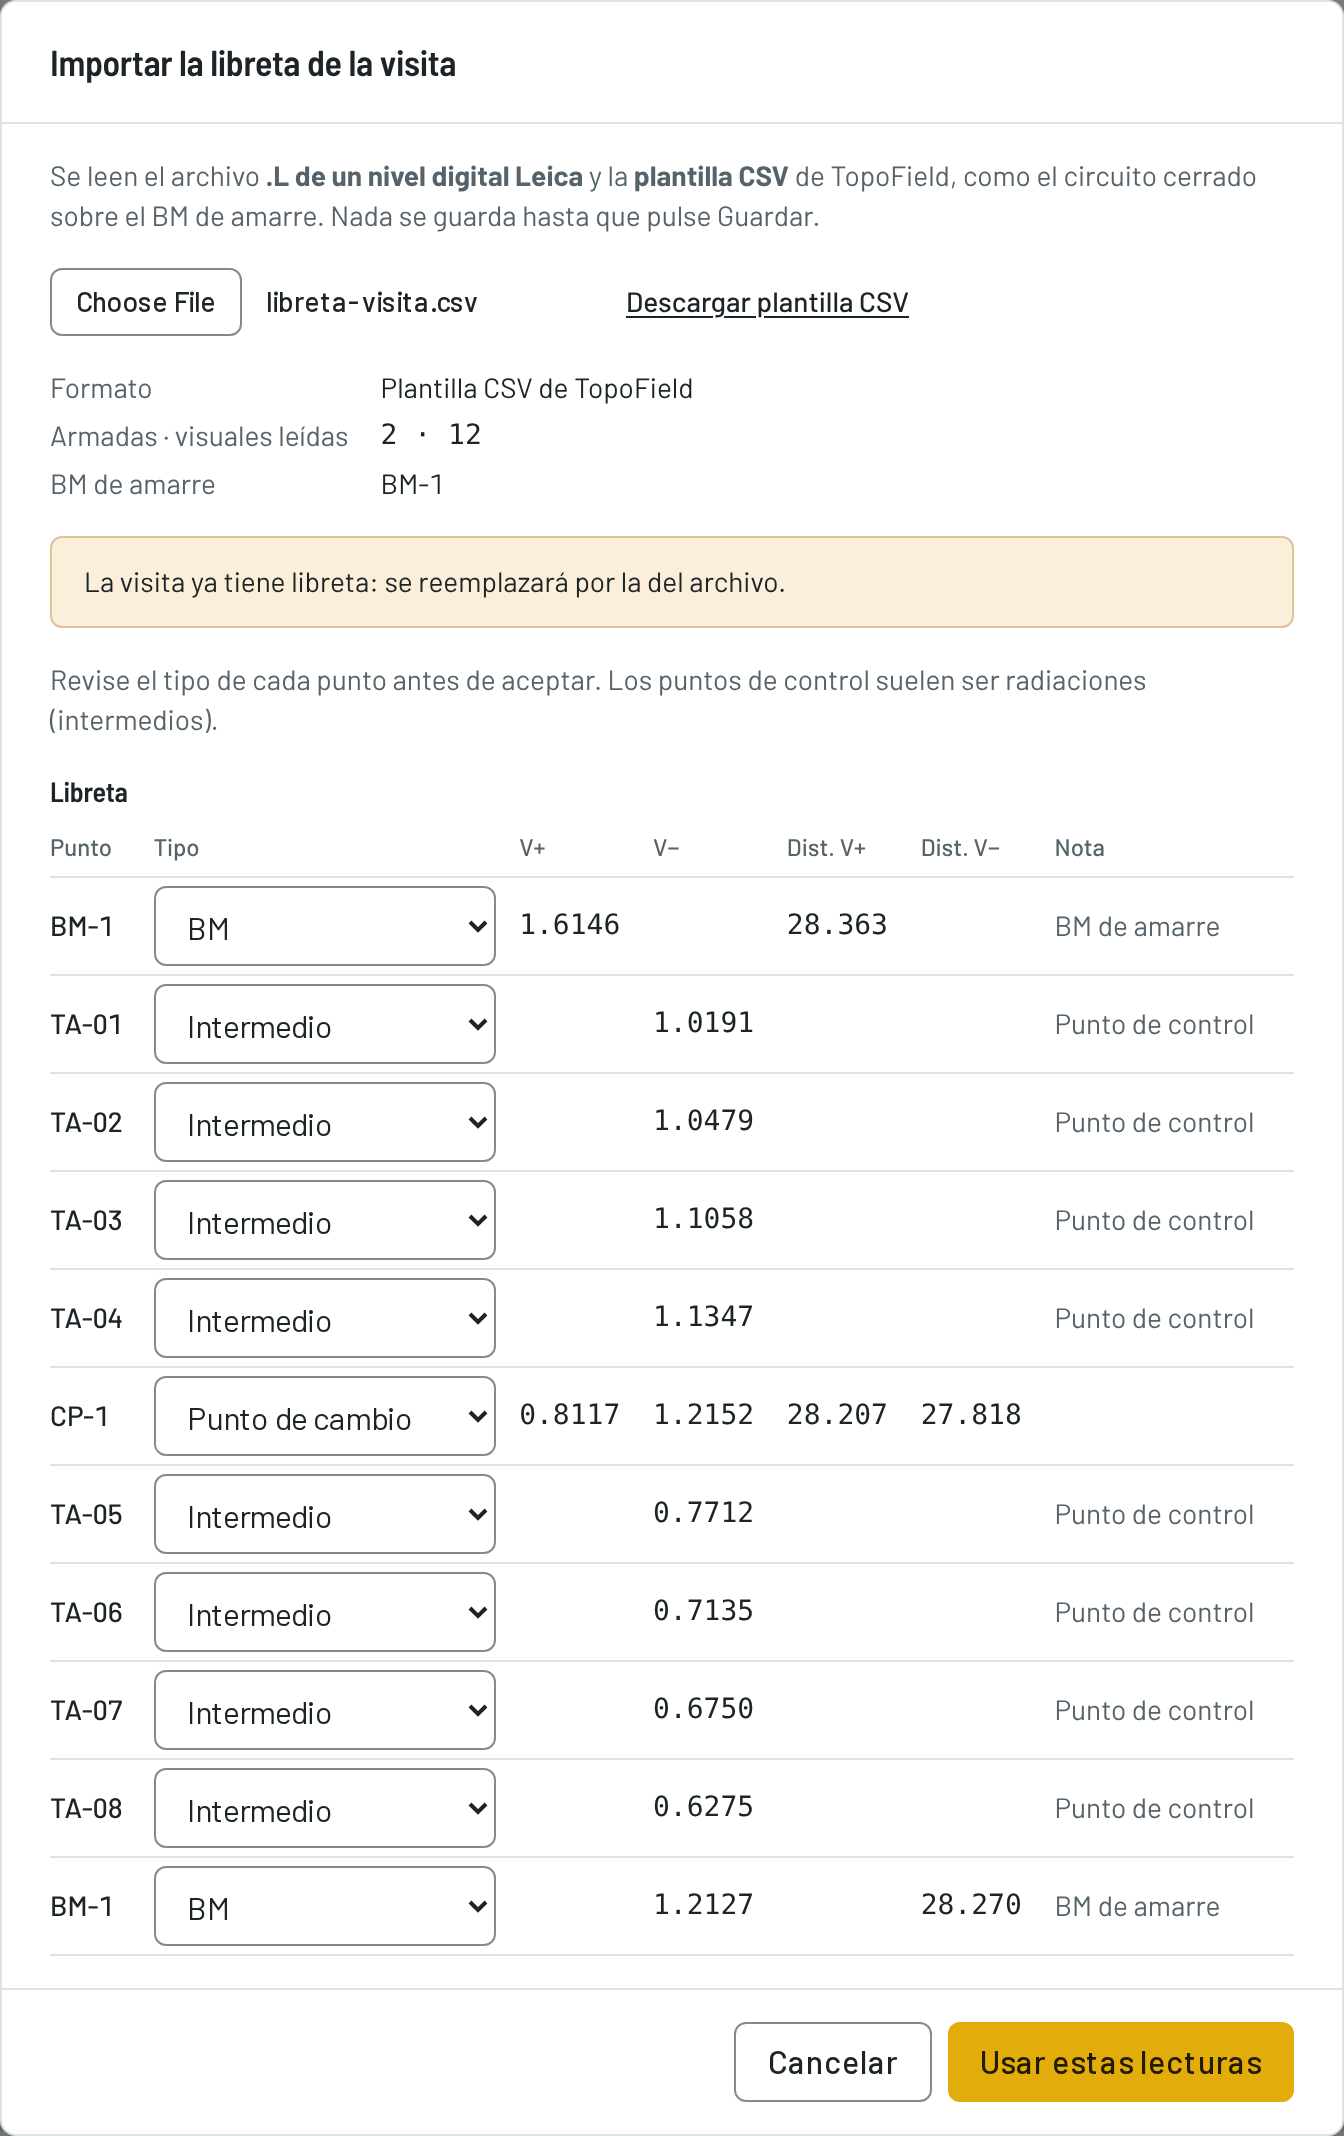
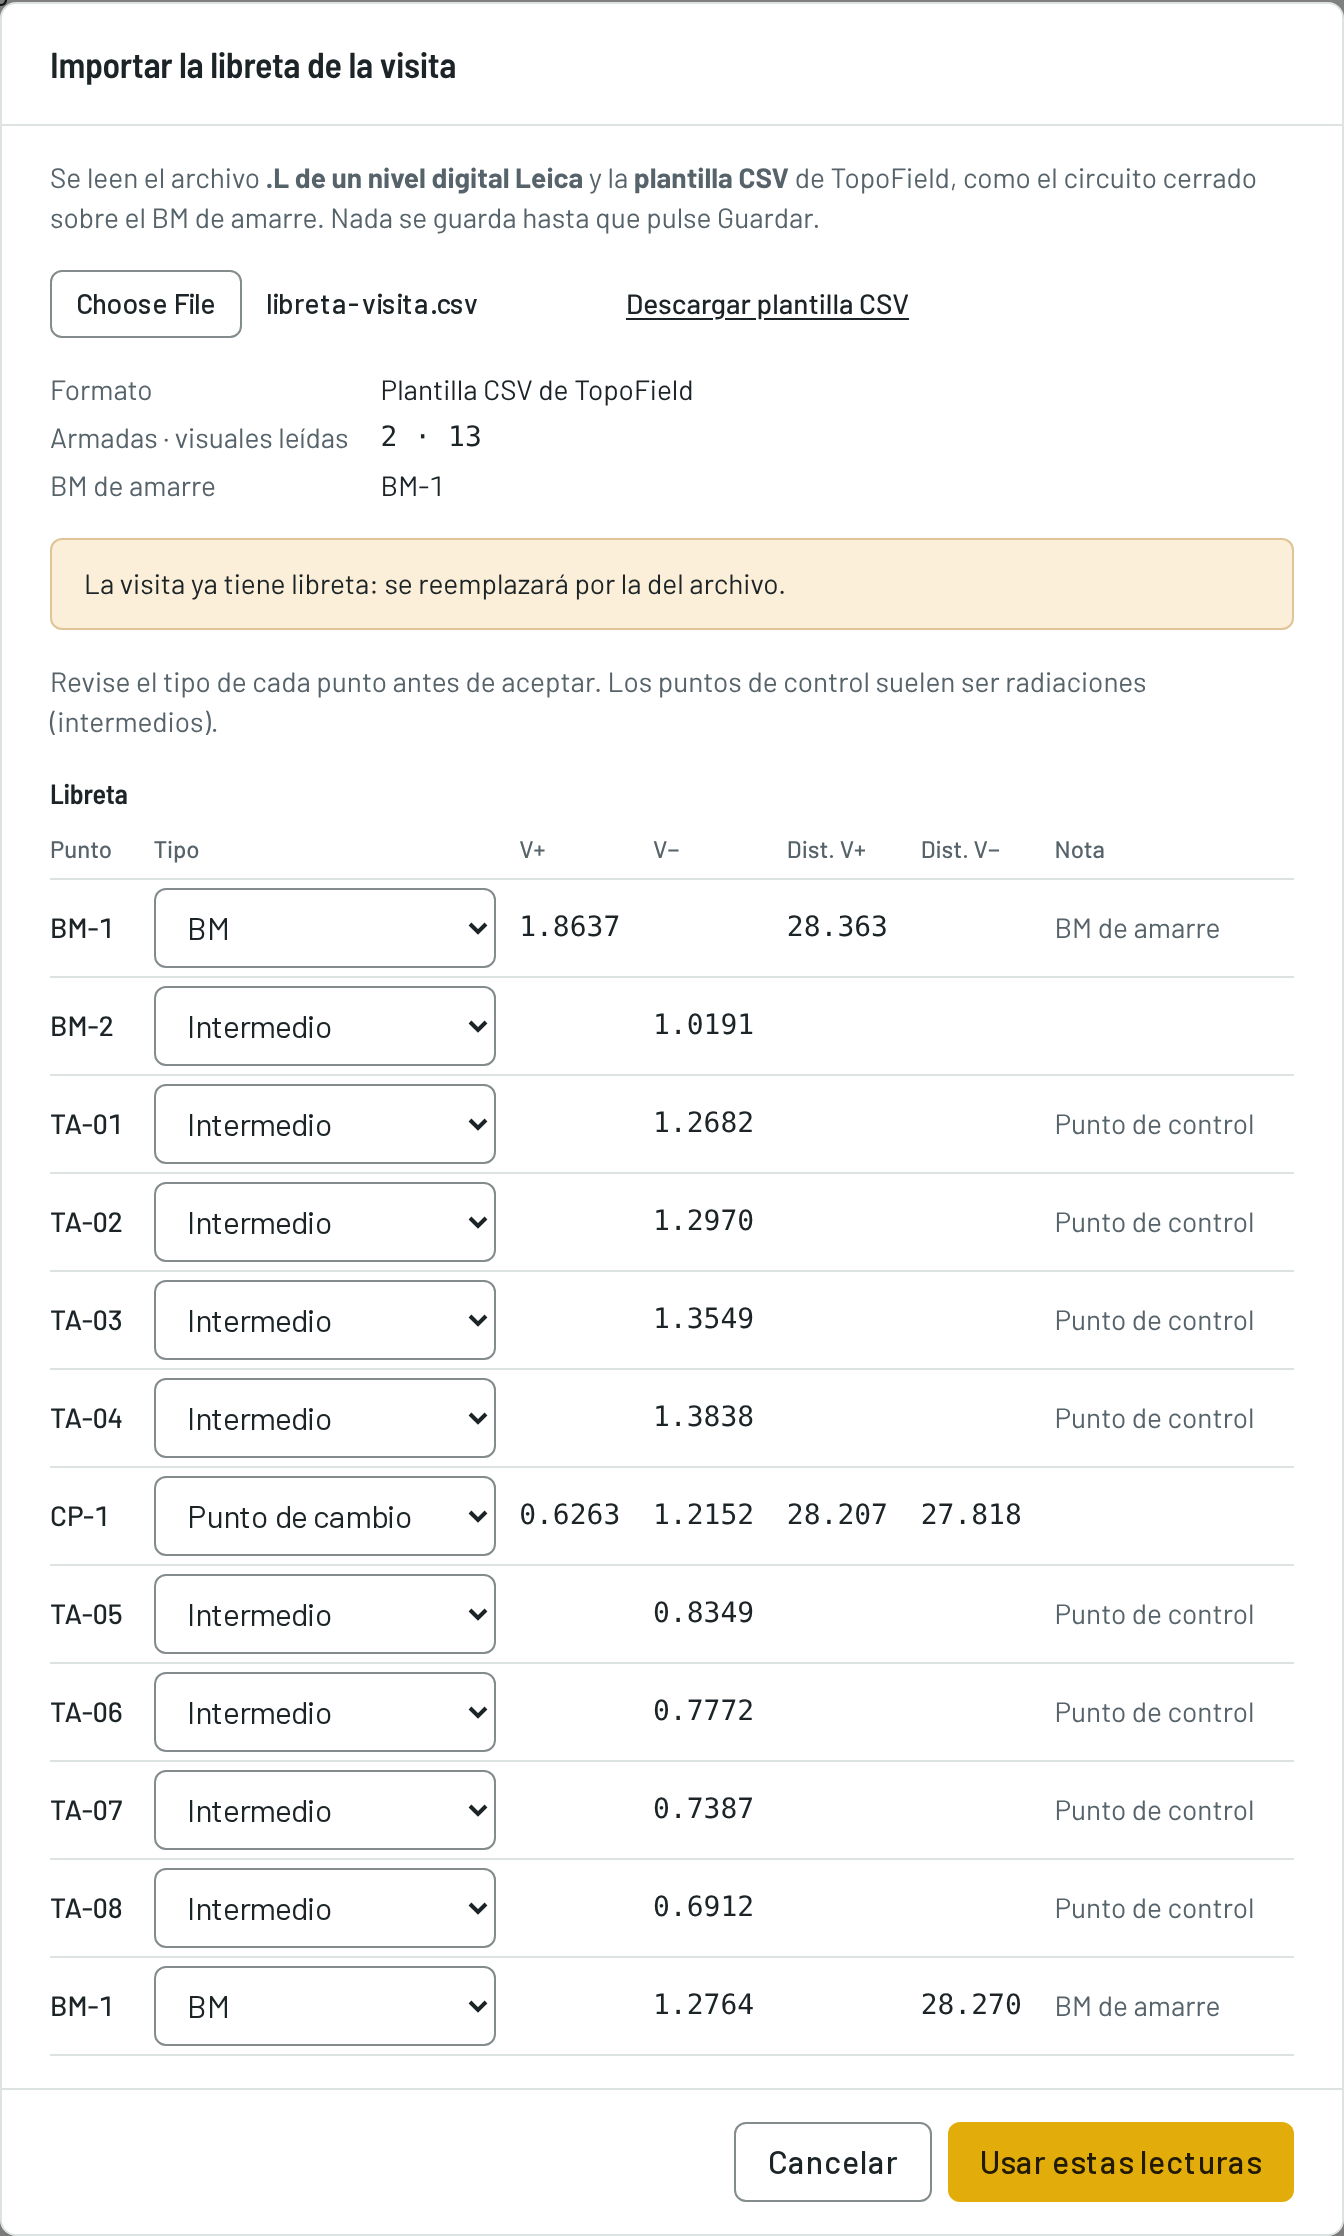
docs: manual — comprobar los BM en la libreta de la visita
Fase 30, en las dos copias: el apartado «Comprobar los BM» del § 7.3, su
fila en la tabla de avisos, el ⚠ del panel, la vista, el registro, el
cierre y el Excel. Capturas 15, 16, 26 y 28, con sus tamaños; el texto
alternativo de la 28 decía ±4.5 mm donde la imagen muestra ±4.0 mm. El ⚠
del amarre usa la fuente del de la columna Cierre.

diff --git a/src/app/(app)/manual/page.tsx b/src/app/(app)/manual/page.tsx
@@ -1564,6 +1564,49 @@ export default function ManualPage() {
         </Nota>
 
         <p>
+          <strong>Comprobar los BM.</strong> Todas las cotas de la visita salen
+          del BM de amarre. Si ese BM se movió, todos los puntos parecen
+          asentarse a la vez. Para detectarlo, haga pasar el circuito también
+          por <strong>otro BM del catálogo</strong> (§ 4.2), por ejemplo como
+          una lectura más de la primera armada. Es lo que recomienda el
+          protocolo de campo: nivelar primero entre BMs.
+        </p>
+
+        <p>
+          La aplicación compara la cota que la libreta le da a ese BM —la
+          calculada, antes de compensar— con la del catálogo. La tolerancia es
+          K·√L del orden de la visita, con L la distancia desde el amarre
+          hasta ese BM.
+        </p>
+
+        <ul className="ml-5 list-disc space-y-1">
+          <li>
+            Si nivela, el resumen de la libreta lo dice: «BM-2 nivela con BM-1:
+            -0.4 mm, tolerancia 2.0 mm.»
+          </li>
+          <li>
+            Si no, avisa con las dos cotas. Uno de los dos BM pudo moverse, o
+            hay un error en la libreta o en la cota del catálogo. Con dos BM
+            no se sabe cuál se movió; con un tercero, comparándolos entre sí,
+            sí.
+          </li>
+        </ul>
+
+        <p>
+          <strong>Solo avisa</strong>: la visita se guarda y se cierra igual.
+          El aviso queda en el editor, junto al amarre en la tabla de visitas
+          del panel, en la vista de la visita y al cerrarla.
+        </p>
+
+        <p>
+          Cuentan los puntos de referencia de tipo BM, con cota y distintos
+          del amarre. Un código que también es punto de control del lugar se
+          trata como punto de control. Al guardar, la visita conserva la cota
+          de catálogo con que se comparó: si después se corrige el catálogo,
+          una visita cerrada no cambia.
+        </p>
+
+        <p>
           <strong>Importar la libreta.</strong> Con un nivel digital,{" "}
           <strong>Importar desde archivo</strong> pasa a la libreta el archivo{" "}
           <strong>.L de Leica</strong> o la <strong>plantilla CSV</strong> de
@@ -1707,7 +1750,9 @@ export default function ManualPage() {
             § 7.5
           </a>
           ). Por visita: el promedio y el máximo del acumulado, el BM de
-          amarre con su cota, el <strong>mayor Δ</strong> desde la anterior,
+          amarre con su cota —con <strong>⚠</strong> si otro BM de la
+          libreta no nivela con él (§ 7.3)—, el <strong>mayor Δ</strong>{" "}
+          desde la anterior,
           el <strong>cierre</strong> de la libreta en mm —con{" "}
           <strong>⚠</strong> si supera la tolerancia; en cotas directas, el
           tecleado—, la peor alerta y el estado: borrador, calculada o
@@ -1804,7 +1849,9 @@ export default function ManualPage() {
           con su diferencia frente a la visita anterior; el mayor movimiento
           desde la anterior; los puntos en alerta, de los medidos; el{" "}
           <strong>cierre de nivelación</strong>, con la tolerancia y si
-          cumple; y la peor alerta junto al estado de la visita.
+          cumple; y la peor alerta junto al estado de la visita. Si otro BM de
+          la libreta no nivela con el amarre, un aviso debajo lo dice, con las
+          dos cotas (§ 7.3).
         </p>
 
         <p>
@@ -1830,7 +1877,8 @@ export default function ManualPage() {
           libreta tal como se guardó: la fecha, el nivelador, el equipo y el
           BM de amarre; por fila, la armada, el punto, V+, AI, la vista
           intermedia (V. int.), V−, la cota y la cota compensada; y al pie
-          ΣV+, ΣV−, el error de cierre y la tolerancia. Las vistas intermedias
+          ΣV+, ΣV−, el error de cierre, la tolerancia y la comprobación de
+          cada BM de control (§ 7.3). Las vistas intermedias
           de los puntos de control van resaltadas: de ellas sale la cota del
           punto. Se cierra con <strong>Cerrar</strong> o con Esc.
         </p>
@@ -1855,7 +1903,9 @@ export default function ManualPage() {
             Si la comprobación aritmética no cuadra, no se puede cerrar
           </strong>
           : corrija la libreta. Si el cierre supera la tolerancia, solo avisa:
-          la visita se cierra con sus cotas sin compensar.
+          la visita se cierra con sus cotas sin compensar. Lo mismo si otro BM
+          no nivela con el amarre (§ 7.3): el diálogo lo recuerda y la visita
+          se cierra igual.
         </p>
 
         <Nota titulo="Cierre las visitas en orden">
@@ -2175,7 +2225,8 @@ export default function ManualPage() {
           <strong>«Visitas»</strong> con el modo de captura, el BM de amarre,
           el cierre y la tolerancia de cada una, y el libro lleva una cuarta
           hoja, <strong>«Libretas»</strong>: la libreta de cada visita que la
-          tiene, con sus cotas calculadas y compensadas.
+          tiene, con sus cotas calculadas y compensadas y la cota de catálogo
+          de los BM de control (§ 7.3).
         </p>
 
         <p>

diff --git a/src/app/(app)/manual/manual-data.ts b/src/app/(app)/manual/manual-data.ts
@@ -123,7 +123,7 @@ export const CAPTURAS = {
   },
   panelAsentamientos: {
     src: "/manual/15-panel-asentamientos.png",
-    alt: "Panel del lugar Torre Alameda: los cinco indicadores, la tabla de visitas con los cierres fuera de tolerancia marcados con ⚠, la tendencia del promedio con su banda y los umbrales, la evolución por punto con sus chips y el semáforo de la última visita.",
+    alt: "Panel del lugar Torre Alameda: los cinco indicadores, la tabla de visitas con los cierres fuera de tolerancia marcados con ⚠ y el ⚠ junto al amarre de la visita 13, donde BM-2 no nivela con BM-1, la tendencia del promedio con su banda y los umbrales, la evolución por punto con sus chips y el semáforo de la última visita.",
     width: 2560,
     height: 5436,
   },
@@ -135,9 +135,9 @@ export const CAPTURAS = {
   },
   importarLibretaVisita: {
     src: "/manual/26-importar-libreta-visita.png",
-    alt: "Diálogo Importar la libreta de la visita con la plantilla CSV: dos armadas y doce visuales, BM de amarre BM-1, el aviso de que la libreta actual se reemplazará y la libreta con los puntos de control marcados.",
+    alt: "Diálogo Importar la libreta de la visita con la plantilla CSV: dos armadas y trece visuales, BM de amarre BM-1, el aviso de que la libreta actual se reemplazará y la libreta con los puntos de control marcados.",
     width: 1344,
-    height: 2136,
+    height: 2236,
   },
   vistaVisita: {
     src: "/manual/27-vista-visita.png",
@@ -147,7 +147,7 @@ export const CAPTURAS = {
   },
   registroNivelacion: {
     src: "/manual/28-registro-nivelacion.png",
-    alt: "Panel lateral Registro de nivelación de la visita 12: la libreta en dos armadas con las vistas intermedias de los puntos de control resaltadas, ΣV+, ΣV−, error de cierre de −1.6 mm dentro de la tolerancia de ±4.5 mm.",
+    alt: "Panel lateral Registro de nivelación de la visita 12: la libreta en dos armadas con las vistas intermedias de los puntos de control resaltadas, ΣV+, ΣV−, error de cierre de −1.6 mm dentro de la tolerancia de ±4.0 mm, y la comprobación de BM-2, que nivela con BM-1.",
     width: 1536,
     height: 1600,
   },
@@ -171,9 +171,9 @@ export const CAPTURAS = {
   },
   editorVisita: {
     src: "/manual/16-editor-visita.png",
-    alt: "Editor de la visita: cabecera con la captura en libreta y el BM de amarre, la libreta de nivelación con las filas de punto de control y de BM de amarre marcadas y su resumen de cierre, y debajo las cotas de los puntos de control que salen de ella.",
+    alt: "Editor de la visita: cabecera con la captura en libreta y el BM de amarre, la libreta de nivelación con las filas de punto de control y de BM de amarre marcadas, su resumen de cierre y la comprobación de BM-2, y debajo las cotas de los puntos de control que salen de ella.",
     width: 2560,
-    height: 6122,
+    height: 6308,
   },
   nuevoInforme: {
     src: "/manual/18-nuevo-informe.png",
@@ -414,6 +414,10 @@ export const AVISOS_LIBRETA = [
     situacion: "El cierre supera la tolerancia",
     ocurre:
       "Solo avisa. La visita se guarda y se cierra igual, con sus cotas sin compensar",
+  },
+  {
+    situacion: "Otro BM del catálogo no nivela con el amarre",
+    ocurre: "Solo avisa: ver «Comprobar los BM», abajo",
   },
   {
     situacion: "Faltan las distancias por visual",

diff --git a/src/components/settlement/visits-table.tsx b/src/components/settlement/visits-table.tsx
@@ -127,7 +127,7 @@ export function VisitsTable({ rows, hrefBase }: VisitsTableProps) {
                         </span>
                       )}
                       {row.bmWarning && (
-                        <span className="font-semibold text-warning" title={row.bmWarning}>
+                        <span className="font-mono font-semibold text-warning" title={row.bmWarning}>
                           <span aria-hidden> ⚠</span>
                           <span className="sr-only"> ({row.bmWarning})</span>
                         </span>

diff --git a/docs/manual/README.md b/docs/manual/README.md
@@ -960,6 +960,7 @@ La libreta avisa de lo que no cuadra:
 | Situación | Qué ocurre |
 |---|---|
 | El cierre supera la tolerancia | **Solo avisa.** La visita se guarda y se cierra igual, con sus cotas sin compensar |
+| Otro BM del catálogo no nivela con el amarre | **Solo avisa**: ver «Comprobar los BM», abajo |
 | Faltan las distancias por visual | Avisa: sin distancias no se evalúa la tolerancia ni se compensa |
 | Todavía no se leyó el amarre de cierre | «Libreta incompleta»: aún no hay error de cierre |
 | La primera o la última fila no es el BM de amarre | **No se puede guardar** |
@@ -974,6 +975,31 @@ La libreta avisa de lo que no cuadra:
 > y al cerrarla. Conviene revisar la libreta o repetir la nivelación. La
 > comprobación aritmética sí bloquea el cierre, porque una suma que no cuadra
 > es un error de la libreta.
+
+**Comprobar los BM.** Todas las cotas de la visita salen del BM de amarre. Si
+ese BM se movió, todos los puntos parecen asentarse a la vez. Para detectarlo,
+haga pasar el circuito también por **otro BM del catálogo** (§ 4.2), por
+ejemplo como una lectura más de la primera armada. Es lo que recomienda el
+protocolo de campo: nivelar primero entre BMs.
+
+La aplicación compara la cota que la libreta le da a ese BM —la calculada,
+antes de compensar— con la del catálogo. La tolerancia es K·√L del orden de
+la visita, con L la distancia desde el amarre hasta ese BM.
+
+- Si nivela, el resumen de la libreta lo dice: «BM-2 nivela con BM-1:
+  -0.4 mm, tolerancia 2.0 mm.»
+- Si no, avisa con las dos cotas. Uno de los dos BM pudo moverse, o hay un
+  error en la libreta o en la cota del catálogo. Con dos BM no se sabe cuál
+  se movió; con un tercero, comparándolos entre sí, sí.
+
+**Solo avisa**: la visita se guarda y se cierra igual. El aviso queda en el
+editor, junto al amarre en la tabla de visitas del panel, en la vista de la
+visita y al cerrarla.
+
+Cuentan los puntos de referencia de tipo BM, con cota y distintos del amarre.
+Un código que también es punto de control del lugar se trata como punto de
+control. Al guardar, la visita conserva la cota de catálogo con que se
+comparó: si después se corrige el catálogo, una visita cerrada no cambia.
 
 **Importar la libreta.** Con un nivel digital, **Importar desde archivo** pasa
 a la libreta el archivo **.L de Leica** o la **plantilla CSV** de TopoField,
@@ -1056,7 +1082,8 @@ línea base, así que el promedio mezcla las dos.
 
 **Visitas.** De la más reciente a la más antigua; pulse una fila para abrir
 la visita (§ 7.5). Por visita: el promedio y el máximo del acumulado, el BM
-de amarre con su cota, el **mayor Δ** desde la anterior, el **cierre** de la
+de amarre con su cota —con **⚠** si otro BM de la libreta no nivela con él
+(§ 7.3)—, el **mayor Δ** desde la anterior, el **cierre** de la
 libreta en mm —con **⚠** si supera la tolerancia; en cotas directas, el
 tecleado—, la peor alerta y el estado: borrador, calculada o cerrada.
 
@@ -1118,7 +1145,8 @@ Una visita cerrada no se edita.
 **Indicadores.** El asentamiento máximo; el promedio, con su diferencia
 frente a la visita anterior; el mayor movimiento desde la anterior; los puntos
 en alerta, de los medidos; el **cierre de nivelación**, con la tolerancia y si
-cumple; y la peor alerta junto al estado de la visita.
+cumple; y la peor alerta junto al estado de la visita. Si otro BM de la libreta
+no nivela con el amarre, un aviso debajo lo dice, con las dos cotas (§ 7.3).
 
 **Puntos de control.** Por punto: la cota base (su C0 o su primera lectura),
 la cota actual, el acumulado, el Δ desde la anterior, la velocidad y la
@@ -1134,7 +1162,8 @@ seleccionar su punto.
 **Registro de nivelación.** Un panel lateral con la libreta tal como se
 guardó: la fecha, el nivelador, el equipo y el BM de amarre; por fila, la
 armada, el punto, V+, AI, la vista intermedia (V. int.), V−, la cota y la
-cota compensada; y al pie ΣV+, ΣV−, el error de cierre y la tolerancia. Las
+cota compensada; y al pie ΣV+, ΣV−, el error de cierre, la tolerancia y la
+comprobación de cada BM de control (§ 7.3). Las
 vistas intermedias de los puntos de control van resaltadas: de ellas sale la
 cota del punto. Se cierra con **Cerrar** o con Esc.
 
@@ -1149,7 +1178,8 @@ todos los puntos **vigentes** en su fecha; los de baja no.
 En una visita con libreta, el diálogo de cierre muestra además el cierre de la
 libreta. **Si la comprobación aritmética no cuadra, no se puede cerrar**:
 corrija la libreta. Si el cierre supera la tolerancia, solo avisa: la visita
-se cierra con sus cotas sin compensar.
+se cierra con sus cotas sin compensar. Lo mismo si otro BM no nivela con el
+amarre (§ 7.3): el diálogo lo recuerda y la visita se cierra igual.
 
 > **Cierre las visitas en orden.** El parcial, la velocidad y la alerta de
 > cada punto se miden contra su lectura anterior, y un punto sin C0 acumula
@@ -1365,7 +1395,8 @@ Si la poligonal se georreferenció, «Resumen» lleva además la sección
 En control de asentamientos, «Datos Crudos» añade un bloque **«Visitas»**
 con el modo de captura, el BM de amarre, el cierre y la tolerancia de cada
 una, y el libro lleva una cuarta hoja, **«Libretas»**: la libreta de cada
-visita que la tiene, con sus cotas calculadas y compensadas.
+visita que la tiene, con sus cotas calculadas y compensadas y la cota de
+catálogo de los BM de control (§ 7.3).
 
 A diferencia del informe, la exportación funciona **en cualquier estado**:
 también sobre un borrador. Las celdas que aún no se han calculado salen
